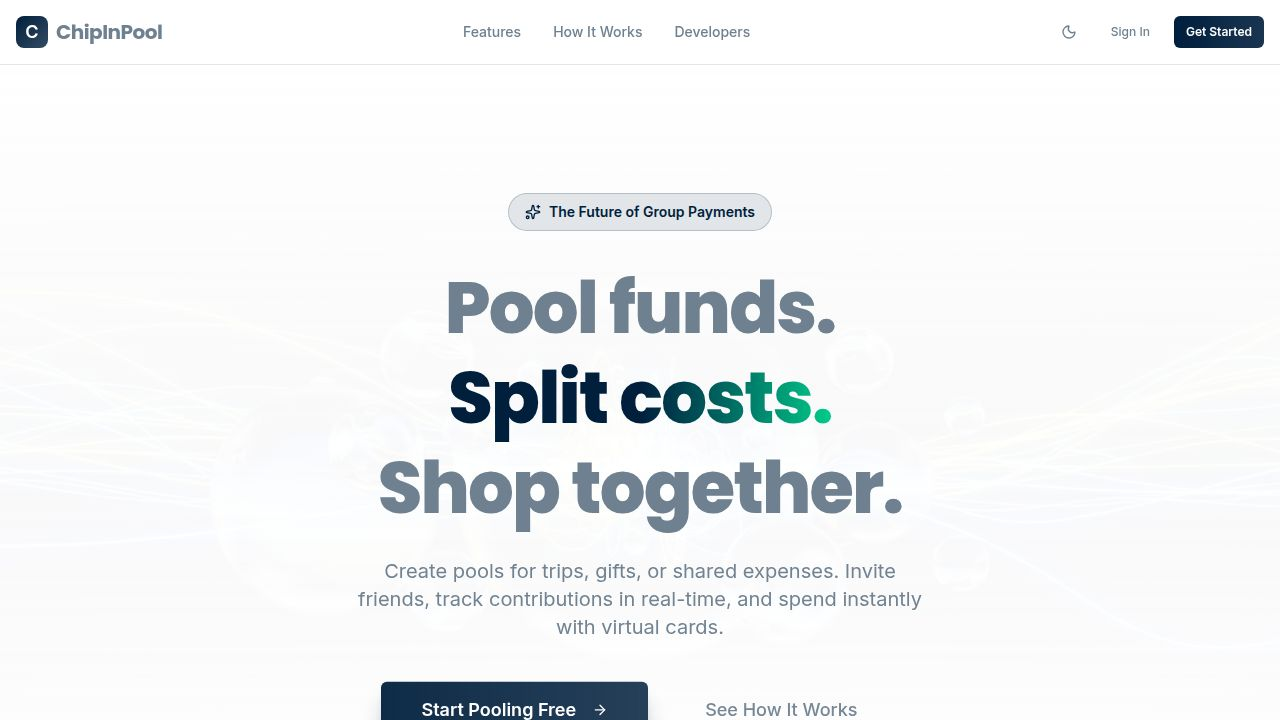
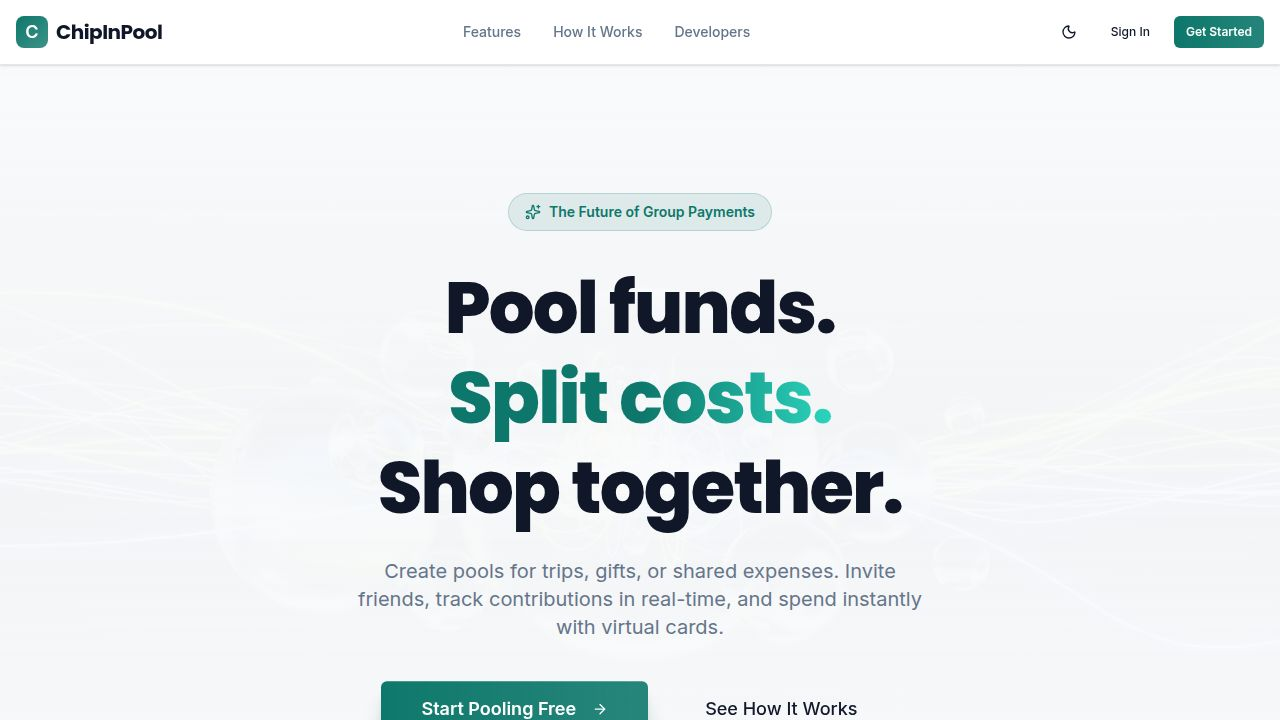
Improve the light mode interface for a more modern and polished appearance
Refine light theme CSS variables for background, foreground, primary, and accent colors. Update various UI components including cards, buttons, inputs, tables, and navigation to enhance contrast, add subtle shadows, and improve overall visual appeal.

Replit-Commit-Author: Agent
Replit-Commit-Session-Id: 88c07316-f496-457b-bfb8-e9a822d06483
Replit-Commit-Checkpoint-Type: full_checkpoint
Replit-Commit-Event-Id: 968b7740-8cb5-446c-b1cf-4bd5df14ba76
Replit-Commit-Screenshot-Url: https://storage.googleapis.com/screenshot-production-us-central1/f008e934-298f-42c0-ba56-0395e2e26b2d/88c07316-f496-457b-bfb8-e9a822d06483/qXQZKeA
Replit-Helium-Checkpoint-Created: true

diff --git a/client/src/index.css b/client/src/index.css
@@ -76,59 +76,92 @@
 }
 
 .light {
-  /* Light Theme - Clean Minimalist Finance */
-  --background: 0 0% 100%;
-  --foreground: 210 13% 50%;
+  /* Light Theme - Modern Clean Finance */
+  --background: 210 20% 98%;
+  --foreground: 222 47% 11%;
 
-  /* Card: Pure White */
+  /* Card: Clean White with subtle warmth */
   --card: 0 0% 100%;
-  --card-foreground: 210 100% 12%;
+  --card-foreground: 222 47% 11%;
 
   /* Popover */
   --popover: 0 0% 100%;
-  --popover-foreground: 210 100% 12%;
+  --popover-foreground: 222 47% 11%;
 
-  /* Primary: Deep Navy Blue (#001F3F) */
-  --primary: 210 100% 12%;
+  /* Primary: Teal-Navy (#0F766E) - modern fintech feel */
+  --primary: 173 80% 26%;
   --primary-foreground: 0 0% 100%;
 
-  /* Secondary: Light Gray */
-  --secondary: 210 20% 96%;
-  --secondary-foreground: 210 100% 12%;
+  /* Secondary: Cool Gray */
+  --secondary: 210 40% 96%;
+  --secondary-foreground: 222 47% 11%;
 
-  /* Muted: Very Light Gray */
-  --muted: 210 20% 96%;
-  --muted-foreground: 210 13% 50%;
+  /* Muted: Soft Gray */
+  --muted: 210 40% 96%;
+  --muted-foreground: 215 16% 47%;
 
-  /* Accent: Mint Green (#7FFFD4) */
-  --accent: 160 100% 40%;
-  --accent-foreground: 210 100% 12%;
+  /* Accent: Vibrant Teal */
+  --accent: 172 66% 50%;
+  --accent-foreground: 222 47% 11%;
 
   /* Destructive */
-  --destructive: 0 72% 51%;
+  --destructive: 0 84% 60%;
   --destructive-foreground: 0 0% 100%;
 
-  /* Borders - subtle */
-  --border: 210 20% 90%;
-  --input: 210 20% 96%;
-  --ring: 210 100% 12%;
+  /* Borders - refined */
+  --border: 214 32% 91%;
+  --input: 214 32% 91%;
+  --ring: 173 80% 26%;
 }
 
-/* Light mode specific overrides for minimalist design */
+/* Light mode specific overrides for polished design */
 .light .glass {
-  @apply bg-primary/5 backdrop-blur-lg border border-primary/10;
+  @apply bg-white/80 backdrop-blur-lg border border-border shadow-sm;
 }
 
 .light .glass-card {
-  @apply bg-white border border-border;
+  @apply bg-white border border-border shadow-sm hover:shadow-md transition-shadow;
 }
 
 .light nav {
-  @apply border-b border-border bg-white/95;
+  @apply border-b border-border bg-white/95 shadow-sm backdrop-blur-sm;
 }
 
 .light footer {
-  @apply border-t border-border;
+  @apply border-t border-border bg-white;
+}
+
+/* Light mode card improvements */
+.light [data-slot="card"] {
+  @apply shadow-sm hover:shadow-md transition-shadow duration-200;
+}
+
+/* Light mode button improvements */
+.light button[data-slot="button"] {
+  @apply shadow-sm;
+}
+
+/* Light mode input styling */
+.light input, .light textarea, .light select {
+  @apply bg-white border-border focus:border-primary/50 focus:ring-primary/20;
+}
+
+/* Light mode table improvements */
+.light table {
+  @apply bg-white;
+}
+
+.light th {
+  @apply bg-muted/50 text-foreground font-semibold;
+}
+
+.light tr:hover {
+  @apply bg-muted/30;
+}
+
+/* Light mode badge styling */
+.light [data-slot="badge"] {
+  @apply shadow-sm;
 }
 
 @layer base {
